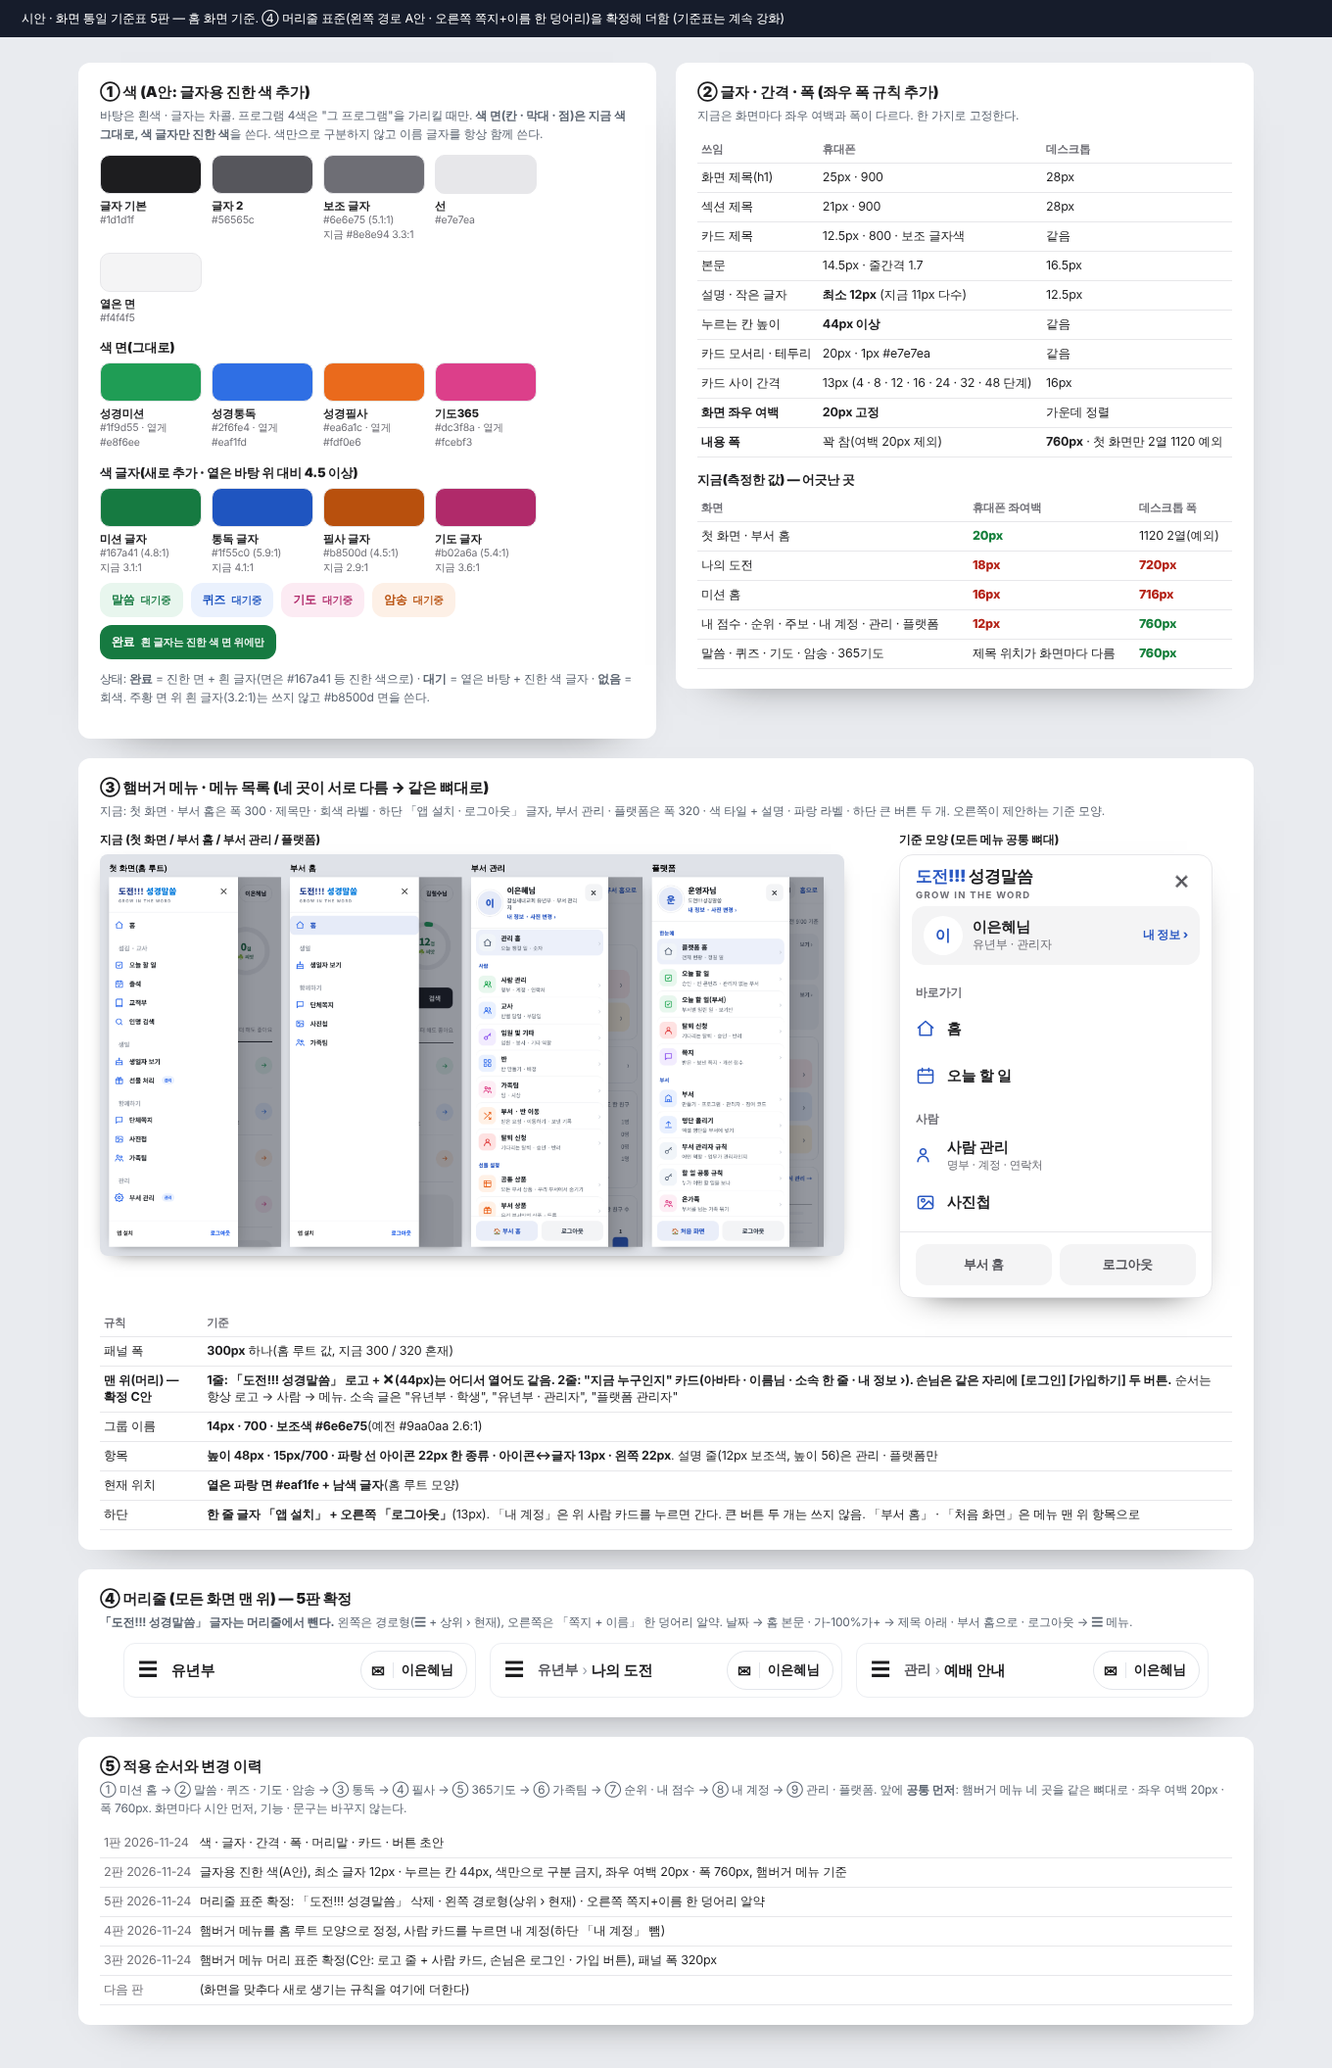
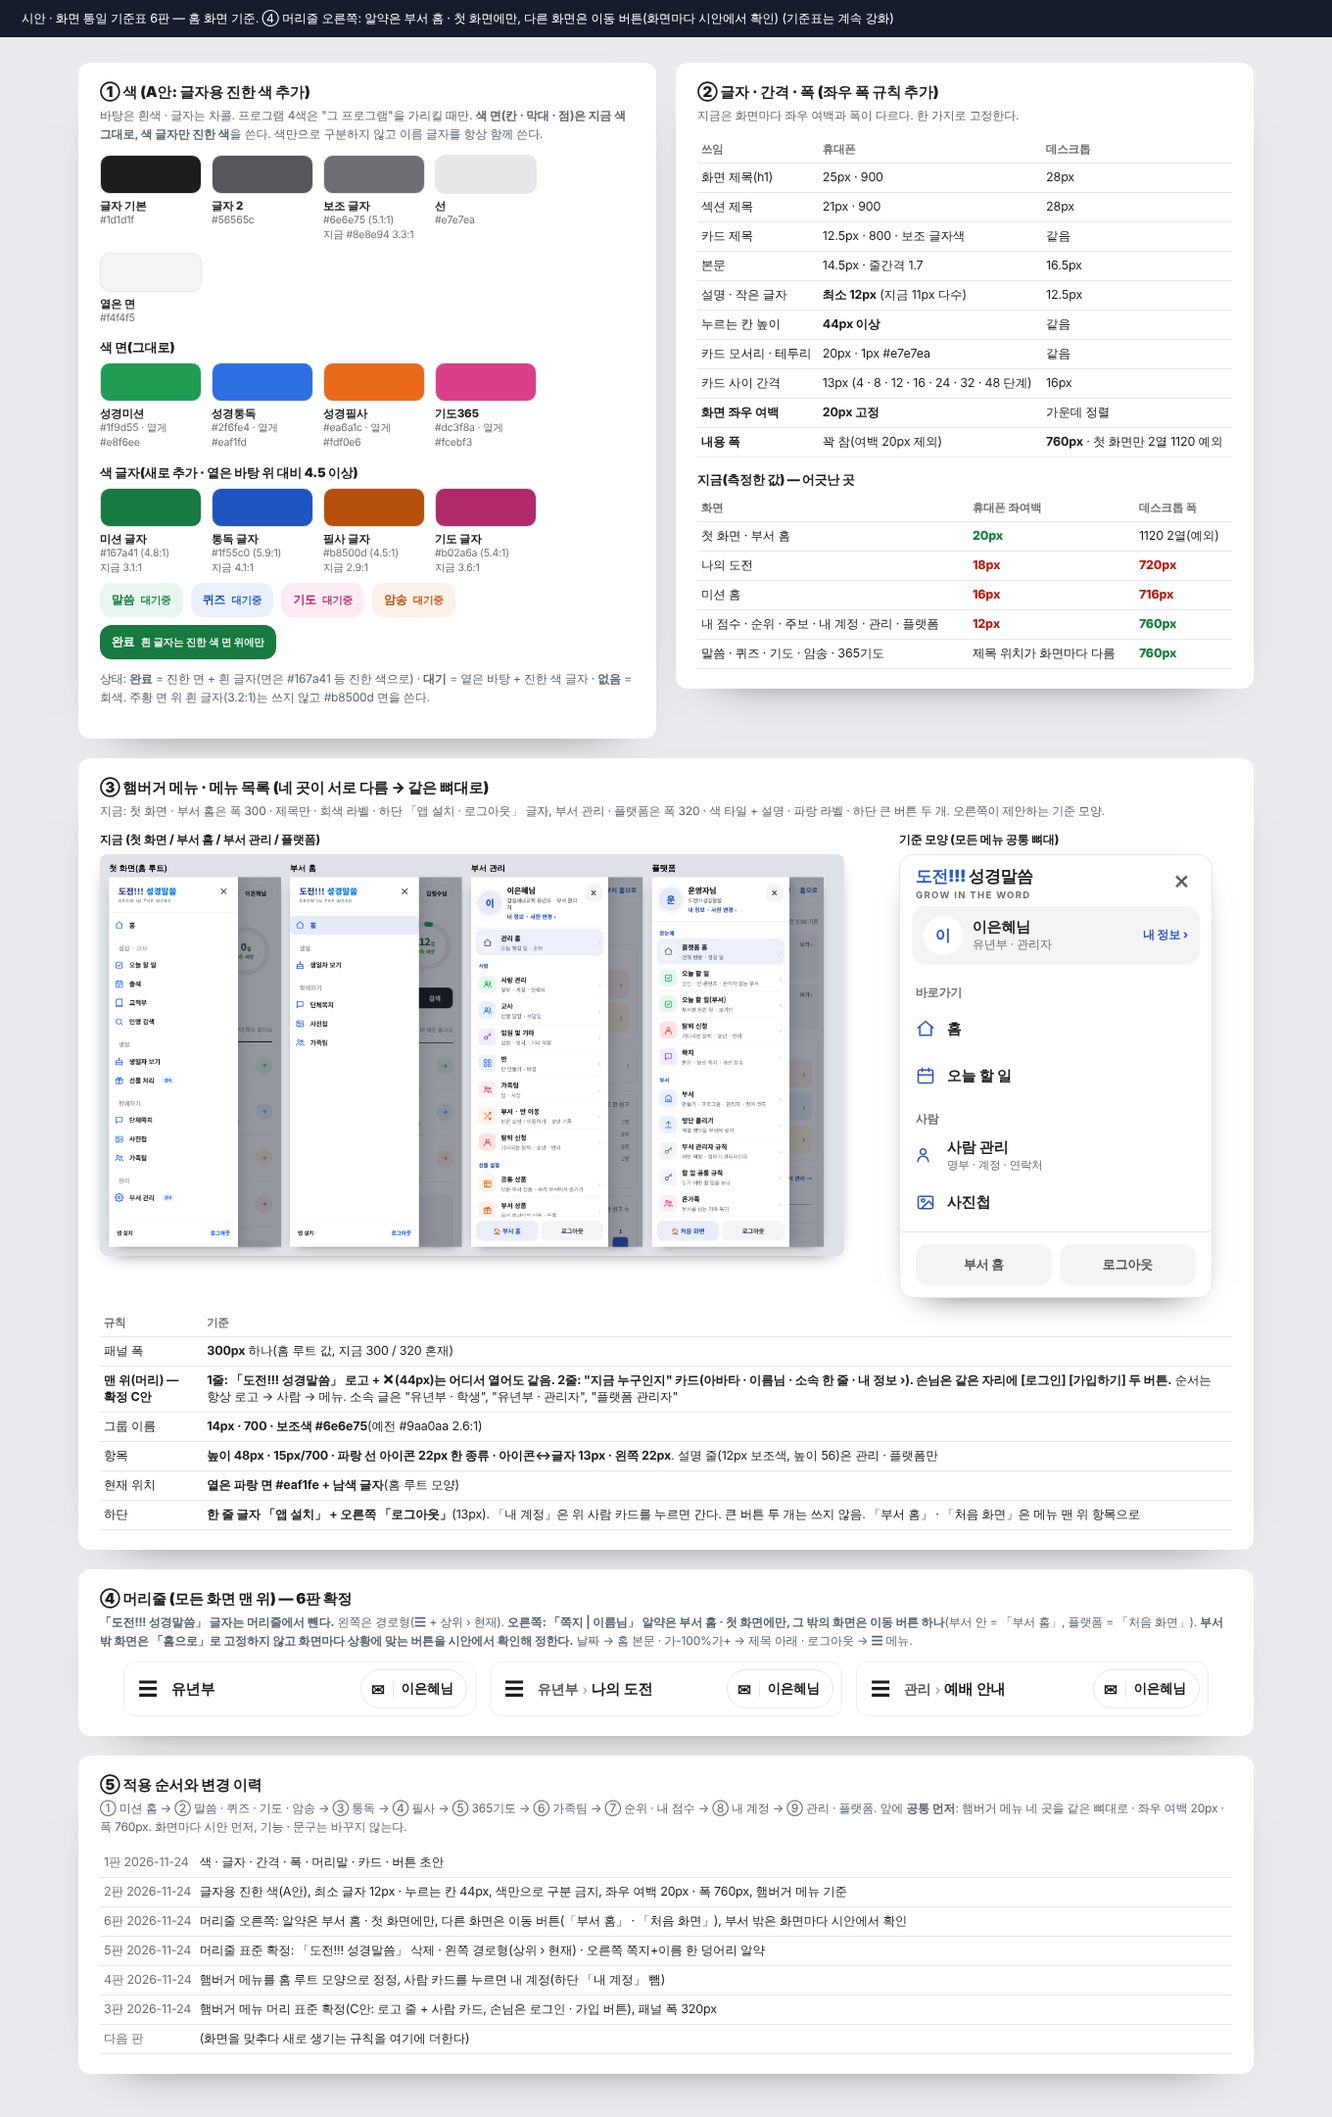
기준표 6판: 머리줄 오른쪽 — 알약은 부서 홈 · 첫 화면에만, 다른 화면은 이동 버튼, 부서 밖은 화면마다 시안에서 확인
Claude-Session: https://claude.ai/code/session_01CkiacwM9TYu6hxWXs6k4wP

Changed region(s): [[0.0618, 0.0, 0.9265, 0.9853], [0.8647, 0.4311, 0.8956, 0.4619]]

diff --git a/docs/design/시안/화면통일-기준표.html b/docs/design/시안/화면통일-기준표.html
@@ -24,7 +24,7 @@ table{width:100%;border-collapse:collapse;font-size:12.5px}td,th{padding:6px 4px
 .mf{display:flex;gap:8px;padding:12px 16px;border-top:1px solid var(--line);margin-top:6px}.mf div{flex:1;text-align:center;background:var(--soft);border-radius:12px;padding:12px 0;font-size:13px;font-weight:800;color:var(--ink-2)}
 .log td:first-child{white-space:nowrap;color:#6e6e75;width:90px}
 </style></head><body>
-<div class="bar">시안 · 화면 통일 기준표 5판 — 홈 화면 기준. ④ 머리줄 표준(왼쪽 경로 A안 · 오른쪽 쪽지+이름 한 덩어리)을 확정해 더함 (기준표는 계속 강화)</div>
+<div class="bar">시안 · 화면 통일 기준표 6판 — 홈 화면 기준. ④ 머리줄 오른쪽: 알약은 부서 홈 · 첫 화면에만, 다른 화면은 이동 버튼(화면마다 시안에서 확인) (기준표는 계속 강화)</div>
 <div class="wrap">
 
 <div class="pn"><h2>① 색 (A안: 글자용 진한 색 추가)</h2><p class="why">바탕은 흰색 · 글자는 차콜. 프로그램 4색은 "그 프로그램"을 가리킬 때만. <b>색 면(칸 · 막대 · 점)은 지금 색 그대로, 색 글자만 진한 색</b>을 쓴다. 색만으로 구분하지 않고 이름 글자를 항상 함께 쓴다.</p>
@@ -67,12 +67,12 @@ table{width:100%;border-collapse:collapse;font-size:12.5px}td,th{padding:6px 4px
 <tr><td>현재 위치</td><td><b>옅은 파랑 면 #eaf1fe + 남색 글자</b>(홈 루트 모양)</td></tr>
 <tr><td>하단</td><td><b>한 줄 글자 「앱 설치」 + 오른쪽 「로그아웃」</b>(13px). 「내 계정」은 위 사람 카드를 누르면 간다. 큰 버튼 두 개는 쓰지 않음. 「부서 홈」 · 「처음 화면」은 메뉴 맨 위 항목으로</td></tr></table></div>
 
-<div class="pn full"><h2>④ 머리줄 (모든 화면 맨 위) — 5판 확정</h2><p class="why"><b>「도전!!! 성경말씀」 글자는 머리줄에서 뺀다.</b> 왼쪽은 경로형(☰ + 상위 › 현재), 오른쪽은 「쪽지 + 이름」 한 덩어리 알약. 날짜 → 홈 본문 · 가-100%가+ → 제목 아래 · 부서 홈으로 · 로그아웃 → ☰ 메뉴.</p>
+<div class="pn full"><h2>④ 머리줄 (모든 화면 맨 위) — 6판 확정</h2><p class="why"><b>「도전!!! 성경말씀」 글자는 머리줄에서 뺀다.</b> 왼쪽은 경로형(☰ + 상위 › 현재). <b>오른쪽: 「쪽지 | 이름님」 알약은 부서 홈 · 첫 화면에만, 그 밖의 화면은 이동 버튼 하나</b>(부서 안 = 「부서 홈」, 플랫폼 = 「처음 화면」). <b>부서 밖 화면은 「홈으로」로 고정하지 않고 화면마다 상황에 맞는 버튼을 시안에서 확인해 정한다.</b> 날짜 → 홈 본문 · 가-100%가+ → 제목 아래 · 로그아웃 → ☰ 메뉴.</p>
 <div style="display:grid;grid-template-columns:repeat(3,360px);gap:14px;justify-content:center">
 <div style="border:1px solid #eceef2;border-radius:12px;height:56px;display:flex;align-items:center;justify-content:space-between;padding:0 8px 0 4px;font-size:14px"><span style="display:flex;align-items:center;gap:4px"><span style="width:40px;text-align:center;font-size:20px">☰</span><b style="font-size:15px">유년부</b></span><span style="display:inline-flex;align-items:center;height:40px;border:1px solid #e3e6eb;border-radius:999px;padding:0 13px 0 10px;gap:8px;font-weight:800;font-size:13.5px">✉<i style="width:1px;height:16px;background:#e3e6eb"></i>이은혜님</span></div>
 <div style="border:1px solid #eceef2;border-radius:12px;height:56px;display:flex;align-items:center;justify-content:space-between;padding:0 8px 0 4px;font-size:14px"><span style="display:flex;align-items:center;gap:4px"><span style="width:40px;text-align:center;font-size:20px">☰</span><span style="color:#56565c;font-weight:700">유년부</span><span style="color:#9aa0aa">›</span><b style="font-size:15px">나의 도전</b></span><span style="display:inline-flex;align-items:center;height:40px;border:1px solid #e3e6eb;border-radius:999px;padding:0 13px 0 10px;gap:8px;font-weight:800;font-size:13.5px">✉<i style="width:1px;height:16px;background:#e3e6eb"></i>이은혜님</span></div>
 <div style="border:1px solid #eceef2;border-radius:12px;height:56px;display:flex;align-items:center;justify-content:space-between;padding:0 8px 0 4px;font-size:14px"><span style="display:flex;align-items:center;gap:4px"><span style="width:40px;text-align:center;font-size:20px">☰</span><span style="color:#56565c;font-weight:700">관리</span><span style="color:#9aa0aa">›</span><b style="font-size:15px">예배 안내</b></span><span style="display:inline-flex;align-items:center;height:40px;border:1px solid #e3e6eb;border-radius:999px;padding:0 13px 0 10px;gap:8px;font-weight:800;font-size:13.5px">✉<i style="width:1px;height:16px;background:#e3e6eb"></i>이은혜님</span></div></div></div>
 
 <div class="pn full"><h2>⑤ 적용 순서와 변경 이력</h2><p class="why">① 미션 홈 → ② 말씀 · 퀴즈 · 기도 · 암송 → ③ 통독 → ④ 필사 → ⑤ 365기도 → ⑥ 가족팀 → ⑦ 순위 · 내 점수 → ⑧ 내 계정 → ⑨ 관리 · 플랫폼. 앞에 <b>공통 먼저</b>: 햄버거 메뉴 네 곳을 같은 뼈대로 · 좌우 여백 20px · 폭 760px. 화면마다 시안 먼저, 기능 · 문구는 바꾸지 않는다.</p>
-<table class="log"><tr><td>1판 2026-11-24</td><td>색 · 글자 · 간격 · 폭 · 머리말 · 카드 · 버튼 초안</td></tr><tr><td>2판 2026-11-24</td><td>글자용 진한 색(A안), 최소 글자 12px · 누르는 칸 44px, 색만으로 구분 금지, 좌우 여백 20px · 폭 760px, 햄버거 메뉴 기준</td></tr><tr><td>5판 2026-11-24</td><td>머리줄 표준 확정: 「도전!!! 성경말씀」 삭제 · 왼쪽 경로형(상위 › 현재) · 오른쪽 쪽지+이름 한 덩어리 알약</td></tr><tr><td>4판 2026-11-24</td><td>햄버거 메뉴를 홈 루트 모양으로 정정, 사람 카드를 누르면 내 계정(하단 「내 계정」 뺌)</td></tr><tr><td>3판 2026-11-24</td><td>햄버거 메뉴 머리 표준 확정(C안: 로고 줄 + 사람 카드, 손님은 로그인 · 가입 버튼), 패널 폭 320px</td></tr><tr><td>다음 판</td><td>(화면을 맞추다 새로 생기는 규칙을 여기에 더한다)</td></tr></table></div>
+<table class="log"><tr><td>1판 2026-11-24</td><td>색 · 글자 · 간격 · 폭 · 머리말 · 카드 · 버튼 초안</td></tr><tr><td>2판 2026-11-24</td><td>글자용 진한 색(A안), 최소 글자 12px · 누르는 칸 44px, 색만으로 구분 금지, 좌우 여백 20px · 폭 760px, 햄버거 메뉴 기준</td></tr><tr><td>6판 2026-11-24</td><td>머리줄 오른쪽: 알약은 부서 홈 · 첫 화면에만, 다른 화면은 이동 버튼(「부서 홈」 · 「처음 화면」), 부서 밖은 화면마다 시안에서 확인</td></tr><tr><td>5판 2026-11-24</td><td>머리줄 표준 확정: 「도전!!! 성경말씀」 삭제 · 왼쪽 경로형(상위 › 현재) · 오른쪽 쪽지+이름 한 덩어리 알약</td></tr><tr><td>4판 2026-11-24</td><td>햄버거 메뉴를 홈 루트 모양으로 정정, 사람 카드를 누르면 내 계정(하단 「내 계정」 뺌)</td></tr><tr><td>3판 2026-11-24</td><td>햄버거 메뉴 머리 표준 확정(C안: 로고 줄 + 사람 카드, 손님은 로그인 · 가입 버튼), 패널 폭 320px</td></tr><tr><td>다음 판</td><td>(화면을 맞추다 새로 생기는 규칙을 여기에 더한다)</td></tr></table></div>
 </div></body></html>

diff --git a/docs/design/0141-화면-통일-기준표.md b/docs/design/0141-화면-통일-기준표.md
@@ -1,6 +1,6 @@
 # 0141 화면 통일 기준표 (홈 화면 기준 · 계속 강화)
 
-- 날짜: 2026-11-24 · 상태: **5판 — 사용자 확정(2026-11-24 "이대로 확정만 한다, 작업은 보류" · 머리줄은 5판에서 확정)**(햄버거 머리 C안은 사용자 확정, 1판 · 2판 규칙은 시안 `시안/화면통일-기준표.png` 를 보고 합의한 안)
+- 날짜: 2026-11-24 · 상태: **6판 — 사용자 확정(2026-11-24 "이대로 확정만 한다, 작업은 보류" · 머리줄은 5판에서 확정)**(햄버거 머리 C안은 사용자 확정, 1판 · 2판 규칙은 시안 `시안/화면통일-기준표.png` 를 보고 합의한 안)
 - 시안: `docs/design/시안/화면통일-기준표.html · .png`(색 · 글자 · 폭 · 메뉴), `시안/햄버거-머리-표준안.png`(머리 3안 비교)
 - **새 개발은 하지 않는다**(2026-11-24 사용자): 기능 · 문구는 그대로, 모양만 홈 루트(첫 화면)에 맞춘다. 화면마다 **시안 먼저 → 확정 → 구현 → 테스트(기능 불변) → 게시 → 폰 확인**.
 
@@ -46,7 +46,12 @@
 ### ④ 머리줄(모든 화면 맨 위, 시안 `시안/머리줄-표준안.png` · `시안/머리줄-오른쪽간격.png`)
 - **「도전!!! 성경말씀」 글자는 머리줄에 쓰지 않는다**(관리 · 플랫폼 · 얇은 머리말에서 반복되던 것을 뺌 — 2026-11-24 사용자). 로고는 ☰ 메뉴 머리와 홈 첫머리에만.
 - **왼쪽 = A안 경로형**: ☰ + 「상위 › 현재」(예: 유년부 › 나의 도전, 관리 › 예배 안내, 플랫폼 › 부서). 최상위는 소속 이름 하나(부서 홈 = 부서 이름). **예외: 첫 화면은 「대한예수교장로회」 + 「잠실새내교회」 두 줄을 그대로 둔다**(2026-11-24 사용자 "이단이 많으니"). 상위 이름을 누르면 한 단계 위로 간다(예전의 「‹ 홈으로」 · 「돌아가기」 · 「미션홈」을 대신). 긴 이름은 위 단계를 줄이고(…) 현재 화면 이름을 먼저 보인다.
-- **오른쪽 = 「쪽지 + 내 이름」 한 덩어리 알약**(2026-11-24 사용자 "2안"): 알약 하나 안에 편지(안 읽은 점) · 가는 세로선 · 이름님. 편지를 누르면 쪽지, 이름을 누르면 내 계정. 손님은 사람 아이콘 하나(로그인). 누르는 칸은 높이가 머리줄 전체(56px)까지 눌리게 해 44px 규칙을 지킨다(편지와 이름 사이 잘못 누름 방지로 세로선 · 각자 최소 폭 확보).
+- **오른쪽(6판, 2026-11-24 사용자 확정 · 시안 `시안/머리줄-오른쪽-부서홈버튼.png`)**:
+  - **「쪽지 | 이름님」 한 덩어리 알약은 부서 홈과 첫 화면에만** 둔다(알약 안: 편지(안 읽은 점) · 가는 세로선 · 이름님. 편지 = 쪽지, 이름 = 내 계정. 손님은 사람 아이콘 하나). 누르는 칸은 머리줄 높이(56px)까지.
+  - **그 밖의 화면은 알약 대신 이동 버튼 하나**(홈 아이콘 + 글자, 높이 40px · 13.5px · 800 · 파랑 글자 · 테두리 알약). 기본값: 부서 안 하위 화면(나의 도전 · 주보 · 사진첩 · 의견 · 말씀 · 퀴즈 · 부서 관리 등) = 「부서 홈」, 플랫폼 = 「처음 화면」.
+  - **부서 밖 화면(쪽지 · 계정 · 참여 신청 등)은 「홈으로」로 고정하지 않는다.** 상황에 따라 그 화면에 맞는 버튼을 쓴다(2026-11-24 사용자). **화면마다 시안에서 오른쪽 버튼을 확인하고 정한다**(「홈으로」는 시안의 기본 자리표시).
+  - 로그인 전 화면은 반대 이동 링크 하나(로그인 화면 = 「가입하기」, 그 밖 = 「로그인」).
+  - 쪽지 · 내 계정은 알약이 없는 화면에서 ☰ 메뉴(사람 카드 → 내 계정, 「단체쪽지」 항목)로 간다. 안 읽은 쪽지 알림을 다른 화면에서도 보이게 하는 안(☰ 아이콘 빨간 점)은 제안만 해 두고 정하지 않음.
 - **머리줄에서 뺀 것의 행선지**: 날짜 → 홈 본문 위쪽 · 글자 「가- 100% 가+」 → 제목 아래 본문 · 「부서 홈으로」 · 「처음 화면」 · 「로그아웃」 → ☰ 메뉴.
 
 ## 지금 어긋난 곳(2026-11-24 측정)
@@ -81,6 +86,7 @@
 - 2판 2026-11-24: 글자용 진한 색(A안) · 최소 글자 12px · 누르는 칸 44px · 색만으로 구분 금지 · 좌우 여백 20px · 폭 760px · 햄버거 메뉴 기준
 - 3판 2026-11-24: 햄버거 메뉴 머리 표준 확정(C안), 패널 폭 320px
 - 4판 2026-11-24: 햄버거 메뉴를 홈 루트 모양으로 정정(폭 300 · 그룹 14px/700 보조색 · 항목 48px 15px/700 · 파랑 선 아이콘 22px · 옅은 파랑 현재 위치 · 하단 한 줄 글자), 머리 C안: 사람 카드를 누르면 내 계정으로 가고(오른쪽 「›」) 하단의 「내 계정」은 뺌
+- 6판 2026-11-24: 머리줄 오른쪽 — 알약은 부서 홈 · 첫 화면에만, 다른 화면은 이동 버튼(부서 안 = 「부서 홈」, 플랫폼 = 「처음 화면」), **부서 밖 화면은 화면마다 상황에 맞는 버튼을 시안에서 확인해 정함**.
 - 5판 2026-11-24: 머리줄 표준 확정 — 「도전!!! 성경말씀」 글자 삭제, 왼쪽 A안 경로형(☰ + 상위 › 현재), 오른쪽 「쪽지 + 이름」 한 덩어리 알약. 구현 보류.
 - 2026-11-24: ① 홈 계열 머리줄 구현. **첫 화면은 「대한예수교장로회」 문구를 그대로 둔다**(사용자 "이단이 많으니"). 부서 홈은 소속 이름 하나 · 교회 홈페이지 링크는 ☰ 메뉴 맨 아래로.
 - 2026-11-24: ② 얇은 머리말 구현 — 주소에 부서가 있는 화면(사진첩 · 주보 · 의견 접수)은 ☰ + 「유년부 › 화면」 + 알약(☰ 부서 메뉴 새로 생김, 로그아웃은 ☰ 메뉴), 그 밖(로그인 전 · 부서 없음 · 계정류)은 「‹ 화면 이름」 + (손님: 반대 이동 링크 하나 · 로그인 후: 알약). 가장 중 [복귀]는 ☰가 없는 화면에서만 머리줄에. 쪽지 화면은 이미 `_GenTop`(☰ 머리말)이라 ③에서 맞춘다.

diff --git a/docs/design/인수인계-2026-11-23.md b/docs/design/인수인계-2026-11-23.md
@@ -27,6 +27,7 @@
 
 ## 화면 통일 작업(2026-11-24 사용자: "새 개발은 안 하고 홈 루트 기준으로 하나씩 통일")
 - 기준표: `docs/design/0141-화면-통일-기준표.md`(**계속 강화**, 맨 아래 변경 이력 · 진행표) · 시안 `docs/design/시안/화면통일-기준표.png`.
+- **머리줄 오른쪽(6판)**: 알약은 부서 홈 · 첫 화면에만, 다른 화면은 이동 버튼(「부서 홈」 등). **부서 밖 화면은 「홈으로」로 고정하지 않고 화면마다 상황에 맞는 버튼을 시안에서 확인**(사용자 2026-11-24). 이 기준은 ③~⑤와 기존 ① ② 화면에도 적용해야 한다(① 부서 홈 · 첫 화면은 이미 알약, ② 얇은 머리말 화면은 **알약 → 이동 버튼으로 바꿔야 함** — 구현 대기).
 - **규칙**: 기능 · 문구는 안 바꾼다. 화면마다 시안(전 · 후) 먼저 → 확정 → 구현 → 테스트 → 게시 → 폰 확인. 새로 생기는 규칙은 기준표에 더한다.
 - 순서: 공통 먼저(햄버거 메뉴 네 곳 · 좌우 여백 20px · 폭 760px · 글자 색/크기) → 미션 홈 → 말씀 · 퀴즈 · 기도 · 암송 → 통독 → 필사 → 365기도 → 가족팀 → 순위 · 내 점수 → 내 계정 → 관리 · 플랫폼. **지금: 기준표 5판 — 공통 0(머리줄: 「도전!!! 성경말씀」 삭제 · 왼쪽 경로형 · 오른쪽 쪽지+이름 한 덩어리) · 공통 1(햄버거 메뉴 네 곳, 시안 `시안/햄버거-네곳-통일.png`)은 사용자가 확정함(2026-11-24). 구현은 사용자가 "순차적으로 진행해"라고 한 2026-11-24부터 시작 — 화면마다 시안 먼저 · 확정 후 구현. 머리줄 ① 홈 계열 구현 · 게시 완료, ② 얇은 머리말(`_Top`) 구현 완료(게시 전), 다음 ③ 자체 머리줄(쪽지 `_GenTop` · 미션 · 통독 · 필사 · 출석 · 내 계정 등).**
 - 모델: 기준 · 시안 · 구현은 Sonnet 5.5. 모양이 크게 달라 판단이 어려운 화면(미션 홈 · 통독 · 필사)은 Opus 로 바꿀지 시작할 때 사용자에게 말한다.
